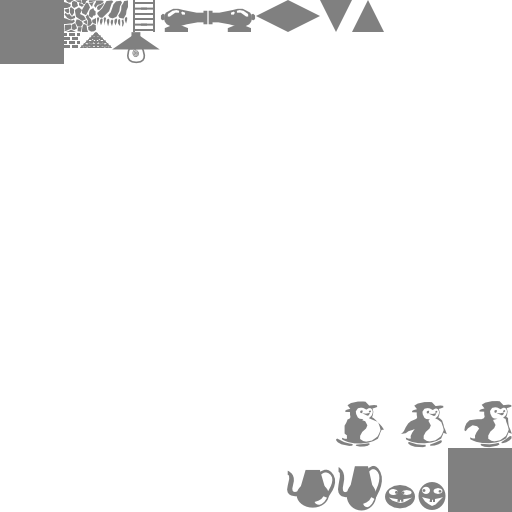
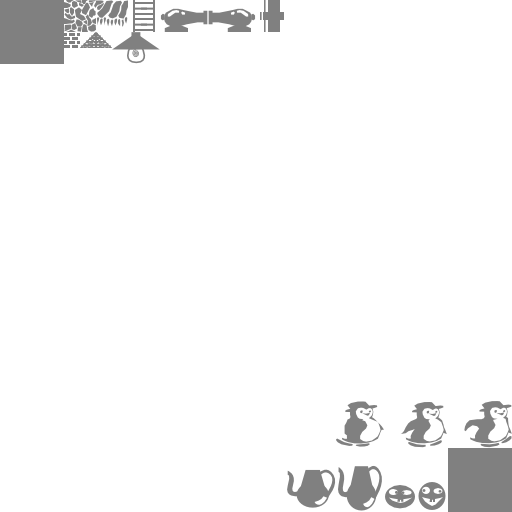
playing with mobile

Changed region(s): [[0.5, 0.0, 0.75, 0.0625]]

diff --git a/src/rooms.js b/src/rooms.js
@@ -12,7 +12,7 @@ var DESCRIPTIONS = {
 }
 
 var ROOMS = {
-    start: [[0,0,0,0,0,0,0,0,0,0,0,0,0,0,0,0,0,0,0,0,0,0,0,0,0,0,0,0,0,0,8,0,3,0,3,0,3,0],[0,0,0,0,0,0,0,0,0,0,0,0,0,0,0,0,0,0,0,0,0,0,0,0,0,0,0,0,0,0,0,0,0,0,0,0,0,0],[0,0,0,0,0,0,0,0,0,0,0,0,5,0,0,0,0,0,0,0,0,0,0,0,0,0,0,0,0,0,8,0,3,0,3,0,3,0],[0,0,0,0,0,0,0,0,0,0,0,15,5,5,5,5,4,4,4,4,4,4,4,4,4,4,4,4,4,4,0,0,0,0,0,0,0,0],[0,0,0,0,0,0,0,0,0,0,15,5,0,0,0,0,0,0,0,0,0,0,0,0,0,0,0,0,0,0,8,0,3,0,3,0,3,0],[0,0,0,0,0,0,0,0,0,0,5,0,0,0,0,0,0,0,0,0,0,0,0,0,0,0,0,0,0,0,0,0,0,0,0,0,0,0],[0,0,0,0,0,0,0,0,0,0,16,5,0,17,0,0,0,0,0,0,0,0,0,0,0,0,0,0,0,0,8,0,3,0,3,0,3,0],[0,0,0,0,0,0,0,0,0,0,0,16,5,0,0,0,0,0,0,0,0,0,0,0,0,0,0,0,0,0,0,0,0,0,0,0,0,0],[0,0,0,0,0,0,0,0,0,0,0,0,0,0,0,0,0,0,0,0,0,0,0,0,0,0,0,0,0,0,8,0,3,0,3,0,3,0],[0,0,0,0,0,0,0,0,0,0,0,0,0,0,0,0,0,0,0,0,0,0,0,0,0,0,0,0,0,0,0,0,0,0,0,0,0,0],[0,0,0,0,0,0,0,0,0,0,0,0,0,0,0,0,0,0,0,0,0,0,0,0,0,0,0,0,0,0,8,0,3,0,3,0,3,0],[0,0,0,0,0,0,0,0,0,0,0,0,0,0,0,0,0,0,0,0,0,0,0,0,0,0,0,0,0,0,0,0,0,0,0,0,0,0],[0,0,0,0,0,0,0,0,0,0,0,0,0,0,0,0,0,0,0,0,0,0,0,0,0,0,0,0,0,0,8,0,3,0,3,0,3,0],[0,0,0,0,0,0,0,0,0,0,0,0,0,0,0,0,0,0,0,0,0,0,0,0,0,0,0,0,0,0,0,0,0,0,0,0,0,0],[0,0,0,0,0,0,0,0,0,0,0,0,0,0,0,0,0,0,0,0,0,0,0,0,0,0,0,0,0,0,8,0,3,0,3,0,3,0],[0,0,0,0,0,0,0,0,0,0,0,0,0,0,0,0,0,0,0,0,0,0,0,0,0,0,0,0,0,0,0,0,0,0,0,0,0,0],[0,0,0,0,0,0,0,0,0,0,0,0,0,0,0,0,0,0,0,0,0,0,0,0,0,0,0,0,0,0,8,0,3,0,3,0,3,0],[0,0,0,0,0,0,0,0,0,0,0,0,0,0,0,0,0,0,0,0,0,0,0,0,0,0,0,0,0,0,0,0,0,0,0,0,0,0],[0,0,0,0,0,0,0,0,0,0,0,0,0,0,0,0,0,0,0,0,0,0,0,0,0,0,0,0,0,0,8,0,3,0,3,0,3,0],[0,0,0,0,0,0,0,0,0,0,0,0,0,0,0,0,0,0,0,0,0,0,0,0,0,0,0,0,0,0,0,0,0,0,0,0,0,0],[0,0,0,0,0,0,0,0,0,0,0,0,0,0,0,0,0,0,0,0,0,0,0,0,0,0,0,0,0,0,8,0,3,0,3,0,3,0],[0,0,0,0,0,0,0,0,0,0,0,0,0,0,0,0,0,0,0,0,0,0,0,0,0,0,0,0,0,0,0,0,0,0,0,0,0,0],[0,0,0,0,0,0,0,0,0,0,0,0,0,0,0,0,0,0,0,0,0,0,0,0,0,0,0,0,0,0,8,0,3,0,3,0,3,0],[0,0,0,0,0,0,0,0,0,0,0,0,0,0,0,0,0,0,0,0,0,0,0,0,0,0,0,0,0,0,0,0,0,0,0,0,0,0],[0,0,0,0,0,0,0,0,0,0,0,0,0,0,0,0,0,0,0,0,0,0,0,0,0,0,0,0,0,0,8,0,3,0,3,0,3,0],[0,0,0,0,0,0,0,0,0,0,0,0,0,0,0,0,0,5,5,0,0,0,0,0,0,0,0,0,0,0,0,0,0,0,0,0,0,0],[0,0,0,0,0,0,0,0,0,0,0,0,0,0,0,0,0,5,5,0,14,0,0,0,0,0,0,0,0,0,8,0,3,0,3,0,3,0],[0,0,0,0,0,0,0,0,0,0,0,0,0,0,0,0,0,5,5,0,0,0,0,0,0,0,0,0,0,0,0,0,0,0,0,0,0,0],[0,0,0,0,0,0,0,0,0,0,0,0,0,0,0,0,0,5,5,0,0,0,0,0,0,0,0,0,0,0,8,0,3,0,3,0,3,0],[0,0,0,0,0,0,0,0,0,0,0,0,0,0,0,0,15,5,5,0,0,0,0,0,0,0,0,0,0,0,0,0,0,0,0,0,0,0],[0,0,0,0,0,0,0,0,0,0,0,0,0,0,0,15,5,4,1,0,1,0,1,0,1,0,0,0,0,0,8,0,3,0,3,0,3,0],[0,0,0,0,0,0,0,0,0,0,0,0,0,0,15,5,4,4,0,0,0,0,0,0,0,0,0,0,0,0,0,0,0,0,0,0,0,0],[0,0,0,0,0,0,0,0,0,0,0,0,0,15,5,4,4,4,1,0,1,0,1,0,1,0,0,0,0,0,8,0,3,0,3,0,3,0],[0,0,0,0,0,0,0,0,0,0,0,0,15,5,4,4,4,4,0,0,0,0,0,0,0,0,0,0,0,0,0,0,0,0,0,0,0,0],[0,0,0,0,0,0,0,0,0,0,0,15,5,4,4,4,4,0,1,0,1,0,0,0,0,0,0,0,0,0,8,0,3,0,3,0,3,0],[0,0,0,0,0,0,0,0,0,0,15,5,4,4,4,4,0,0,0,0,0,0,0,0,0,0,0,0,0,0,0,0,0,0,0,0,0,0],[0,0,0,0,0,0,0,0,0,15,5,4,4,4,4,0,0,0,1,0,1,0,0,0,0,0,0,0,0,0,8,0,3,0,3,0,3,0],[0,0,0,0,0,0,0,0,15,5,4,4,4,4,0,0,0,0,0,0,0,0,0,0,0,0,0,0,0,0,0,0,0,0,0,0,0,0],[0,0,0,0,0,0,0,15,5,4,4,4,4,0,0,0,0,0,1,0,1,0,0,0,0,0,0,0,0,0,8,0,3,0,3,0,3,0],[0,0,0,0,0,0,15,5,4,4,4,4,0,0,0,0,0,0,0,0,0,0,0,0,0,0,0,0,0,0,0,0,0,0,0,0,0,0],[0,0,0,0,0,15,5,4,4,4,4,0,0,0,0,0,0,0,1,0,1,0,0,0,0,0,0,0,0,0,8,0,3,0,3,0,3,0],[0,0,0,0,15,5,4,4,4,4,0,0,0,0,0,0,0,0,0,0,0,0,0,0,0,0,0,0,0,0,0,0,0,0,0,0,0,0],[0,0,0,0,5,4,4,4,4,0,0,0,0,0,0,0,0,0,1,0,1,0,0,0,0,0,0,0,0,0,8,0,3,0,3,0,3,0],[0,0,0,0,5,4,4,4,4,0,0,0,0,0,0,0,0,0,0,0,0,0,0,0,0,0,0,0,0,0,0,0,0,0,0,0,0,0],[0,0,0,0,5,4,4,4,4,0,0,0,0,0,0,0,0,0,1,0,1,0,0,0,0,0,0,0,0,0,8,0,3,0,3,0,3,0],[0,0,0,0,5,4,4,4,4,0,0,0,0,0,0,0,0,0,0,0,0,0,0,0,0,0,0,0,0,0,0,0,0,0,0,0,0,0],[0,0,0,0,5,4,4,4,4,0,0,0,0,0,0,0,0,0,1,0,1,0,0,0,0,0,0,0,0,0,8,0,3,0,3,0,3,0],[0,0,0,0,5,4,4,4,4,0,0,0,0,0,0,0,0,0,0,0,0,0,0,0,0,0,0,0,0,0,0,0,0,0,0,0,0,0],[0,0,0,0,1,0,1,0,1,0,0,0,0,0,0,0,0,0,1,0,1,0,0,0,0,0,0,0,0,0,8,0,3,0,3,0,3,0],[0,0,0,0,0,0,0,0,0,0,0,0,0,0,0,0,0,0,0,0,0,0,0,0,0,0,0,0,0,0,0,0,0,0,0,0,0,0]],
+    start: [[0,0,0,0,0,0,0,0,0,0,0,0,0,0,0,0,0,0,0,0,0,0,0,0,0,0,0,0,0,0,8,0,3,0,3,0,3,0],[0,0,0,0,0,0,0,0,0,0,0,0,0,0,0,0,0,0,0,0,0,0,0,0,0,0,0,0,0,0,0,0,0,0,0,0,0,0],[0,0,0,0,0,0,0,0,0,0,0,15,5,5,5,5,18,0,18,0,18,0,18,0,18,0,18,0,18,0,8,0,3,0,3,0,3,0],[0,0,0,0,0,0,0,0,0,0,15,5,5,5,5,5,0,0,0,0,0,0,0,0,0,0,0,0,0,0,0,0,0,0,0,0,0,0],[0,0,0,0,0,0,0,0,0,0,5,5,0,0,0,0,0,0,0,0,0,0,0,0,0,0,0,0,0,0,8,0,3,0,3,0,3,0],[0,0,0,0,0,0,0,0,0,0,5,5,0,0,0,0,0,0,0,0,0,0,0,0,0,0,0,0,0,0,0,0,0,0,0,0,0,0],[0,0,0,0,0,0,0,0,0,0,16,5,0,17,0,0,0,0,0,0,0,0,0,0,0,0,0,0,0,0,8,0,3,0,3,0,3,0],[0,0,0,0,0,0,0,0,0,0,0,16,5,0,0,0,0,0,0,0,0,0,0,0,0,0,0,0,0,0,0,0,0,0,0,0,0,0],[0,0,0,0,0,0,0,0,0,0,0,0,0,0,0,0,0,0,0,0,0,0,0,0,0,0,0,0,0,0,8,0,3,0,3,0,3,0],[0,0,0,0,0,0,0,0,0,0,0,0,0,0,0,0,0,0,0,0,0,0,0,0,0,0,0,0,0,0,0,0,0,0,0,0,0,0],[0,0,0,0,0,0,0,0,0,0,0,0,0,0,0,0,0,0,0,0,0,0,0,0,0,0,0,0,0,0,8,0,3,0,3,0,3,0],[0,0,0,0,0,0,0,0,0,0,0,0,0,0,0,0,0,0,0,0,0,0,0,0,0,0,0,0,0,0,0,0,0,0,0,0,0,0],[0,0,0,0,0,0,0,0,0,0,0,0,0,0,0,0,0,0,0,0,0,0,0,0,0,0,0,0,0,0,8,0,3,0,3,0,3,0],[0,0,0,0,0,0,0,0,0,0,0,0,0,0,0,0,0,0,0,0,0,0,0,0,0,0,0,0,0,0,0,0,0,0,0,0,0,0],[0,0,0,0,0,0,0,0,0,0,0,0,0,0,0,0,0,0,0,0,0,0,0,0,0,0,0,0,0,0,8,0,3,0,3,0,3,0],[0,0,0,0,0,0,0,0,0,0,0,0,0,0,0,0,0,0,0,0,0,0,0,0,0,0,0,0,0,0,0,0,0,0,0,0,0,0],[0,0,0,0,0,0,0,0,0,0,0,0,0,0,0,0,0,0,0,0,0,0,0,0,0,0,0,0,0,0,8,0,3,0,3,0,3,0],[0,0,0,0,0,0,0,0,0,0,0,0,0,0,0,0,0,0,0,0,0,0,0,0,0,0,0,0,0,0,0,0,0,0,0,0,0,0],[0,0,0,0,0,0,0,0,0,0,0,0,0,0,0,0,0,0,0,0,0,0,0,0,0,0,0,0,0,0,8,0,3,0,3,0,3,0],[0,0,0,0,0,0,0,0,0,0,0,0,0,0,0,0,0,0,0,0,0,0,0,0,0,0,0,0,0,0,0,0,0,0,0,0,0,0],[0,0,0,0,0,0,0,0,0,0,0,0,0,0,0,0,0,0,0,0,0,0,0,0,0,0,0,0,0,0,8,0,3,0,3,0,3,0],[0,0,0,0,0,0,0,0,0,0,0,0,0,0,0,0,0,0,0,0,0,0,0,0,0,0,0,0,0,0,0,0,0,0,0,0,0,0],[0,0,0,0,0,0,0,0,0,0,0,0,0,0,0,0,0,0,0,0,0,0,0,0,0,0,0,0,0,0,8,0,3,0,3,0,3,0],[0,0,0,0,0,0,0,0,0,0,0,0,0,0,0,0,0,0,0,0,0,0,0,0,0,0,0,0,0,0,0,0,0,0,0,0,0,0],[0,0,0,0,0,0,0,0,0,0,0,0,0,0,0,0,0,0,0,0,0,0,0,0,0,0,0,0,0,0,8,0,3,0,3,0,3,0],[0,0,0,0,0,0,0,0,0,0,0,0,0,0,0,0,0,5,5,0,0,0,0,0,0,0,0,0,0,0,0,0,0,0,0,0,0,0],[0,0,0,0,0,0,0,0,0,0,0,0,0,0,0,0,0,5,5,0,14,0,0,0,0,0,0,0,0,0,8,0,3,0,3,0,3,0],[0,0,0,0,0,0,0,0,0,0,0,0,0,0,0,0,0,5,5,0,0,0,0,0,0,0,0,0,0,0,0,0,0,0,0,0,0,0],[0,0,0,0,0,0,0,0,0,0,0,0,0,0,0,0,0,5,5,0,0,0,0,0,0,0,0,0,0,0,8,0,3,0,3,0,3,0],[0,0,0,0,0,0,0,0,0,0,0,0,0,0,0,0,15,5,5,0,0,0,0,0,0,0,0,0,0,0,0,0,0,0,0,0,0,0],[0,0,0,0,0,0,0,0,0,0,0,0,0,0,0,15,5,4,1,0,1,0,1,0,1,0,0,0,0,0,8,0,3,0,3,0,3,0],[0,0,0,0,0,0,0,0,0,0,0,0,0,0,15,5,4,4,0,0,0,0,0,0,0,0,0,0,0,0,0,0,0,0,0,0,0,0],[0,0,0,0,0,0,0,0,0,0,0,0,0,15,5,4,4,4,1,0,1,0,1,0,1,0,0,0,0,0,8,0,3,0,3,0,3,0],[0,0,0,0,0,0,0,0,0,0,0,0,15,5,4,4,4,4,0,0,0,0,0,0,0,0,0,0,0,0,0,0,0,0,0,0,0,0],[0,0,0,0,0,0,0,0,0,0,0,15,5,4,4,4,4,0,1,0,1,0,0,0,0,0,0,0,0,0,8,0,3,0,3,0,3,0],[0,0,0,0,0,0,0,0,0,0,15,5,4,4,4,4,0,0,0,0,0,0,0,0,0,0,0,0,0,0,0,0,0,0,0,0,0,0],[0,0,0,0,0,0,0,0,0,15,5,4,4,4,4,0,0,0,1,0,1,0,0,0,0,0,0,0,0,0,8,0,3,0,3,0,3,0],[0,0,0,0,0,0,0,0,15,5,4,4,4,4,0,0,0,0,0,0,0,0,0,0,0,0,0,0,0,0,0,0,0,0,0,0,0,0],[0,0,0,0,0,0,0,15,5,4,4,4,4,0,0,0,0,0,1,0,1,0,0,0,0,0,0,0,0,0,8,0,3,0,3,0,3,0],[0,0,0,0,0,0,15,5,4,4,4,4,0,0,0,0,0,0,0,0,0,0,0,0,0,0,0,0,0,0,0,0,0,0,0,0,0,0],[0,0,0,0,0,15,5,4,4,4,4,0,0,0,0,0,0,0,1,0,1,0,0,0,0,0,0,0,0,0,8,0,3,0,3,0,3,0],[0,0,0,0,15,5,4,4,4,4,0,0,0,0,0,0,0,0,0,0,0,0,0,0,0,0,0,0,0,0,0,0,0,0,0,0,0,0],[0,0,0,0,5,4,4,4,4,0,0,0,0,0,0,0,0,0,1,0,1,0,0,0,0,0,0,0,0,0,8,0,3,0,3,0,3,0],[0,0,0,0,5,4,4,4,4,0,0,0,0,0,0,0,0,0,0,0,0,0,0,0,0,0,0,0,0,0,0,0,0,0,0,0,0,0],[0,0,0,0,5,4,4,4,4,0,0,0,0,0,0,0,0,0,1,0,1,0,0,0,0,0,0,0,0,0,8,0,3,0,3,0,3,0],[0,0,0,0,5,4,4,4,4,0,0,0,0,0,0,0,0,0,0,0,0,0,0,0,0,0,0,0,0,0,0,0,0,0,0,0,0,0],[0,0,0,0,5,4,4,4,4,0,0,0,0,0,0,0,0,0,1,0,1,0,0,0,0,0,0,0,0,0,8,0,3,0,3,0,3,0],[0,0,0,0,5,4,4,4,4,0,0,0,0,0,0,0,0,0,0,0,0,0,0,0,0,0,0,0,0,0,0,0,0,0,0,0,0,0],[0,0,0,0,1,0,1,0,1,0,0,0,0,0,0,0,0,0,1,0,1,0,0,0,0,0,0,0,0,0,8,0,3,0,3,0,3,0],[0,0,0,0,0,0,0,0,0,0,0,0,0,0,0,0,0,0,0,0,0,0,0,0,0,0,0,0,0,0,0,0,0,0,0,0,0,0]],
     entryway: [[4,4,4,4,4,4,4,4,0,0,0,0,0,0,0,0,0,0,1,0,1,0,0,0,0,0,0,0,0,0,8,0,3,0,3,0,3,0],[4,4,4,4,4,4,4,4,0,0,0,0,0,0,0,0,0,0,0,0,0,0,0,0,0,0,0,0,0,0,0,0,0,0,0,0,0,0],[4,4,4,4,4,4,4,4,0,0,0,0,0,0,0,0,0,0,1,0,1,0,0,0,0,0,0,0,0,0,8,0,3,0,3,0,3,0],[4,4,4,4,4,4,4,4,0,0,0,0,0,0,0,0,0,0,0,0,0,0,0,0,0,0,0,0,0,0,0,0,0,0,0,0,0,0],[4,4,4,4,4,4,4,4,0,0,0,0,0,0,0,0,0,0,1,0,1,0,0,0,0,0,0,0,0,0,8,0,3,0,3,0,3,0],[4,4,4,4,4,4,4,4,0,0,0,0,0,0,0,0,0,0,0,0,0,0,0,0,0,0,0,0,0,0,0,0,0,0,0,0,0,0],[4,4,4,4,4,4,4,4,0,0,0,0,0,0,0,0,0,0,1,0,1,0,0,0,0,0,0,0,0,0,8,0,3,0,3,0,3,0],[4,4,4,4,4,4,4,4,0,0,0,0,0,0,0,0,0,0,0,0,0,0,0,0,0,0,0,0,0,0,0,0,0,0,0,0,0,0],[4,4,4,4,4,4,4,4,0,0,0,0,0,0,0,0,0,0,1,0,1,0,0,0,0,0,0,0,0,0,8,0,3,0,3,0,3,0],[4,4,4,4,4,4,4,4,0,0,0,0,0,0,0,0,0,0,0,0,0,0,0,0,0,0,0,0,0,0,0,0,0,0,0,0,0,0],[4,4,4,4,4,4,4,4,0,0,0,0,0,0,0,0,0,0,1,0,1,0,0,0,0,0,0,0,0,0,8,0,3,0,3,0,3,0],[4,4,0,0,0,10,0,4,0,0,0,0,0,0,0,0,0,0,0,0,0,0,0,0,0,0,0,0,0,0,0,0,0,0,0,0,0,0],[1,0,0,0,0,0,0,4,0,0,0,0,0,0,0,0,0,0,1,0,1,0,0,0,0,0,0,0,0,0,8,0,3,0,3,0,3,0],[0,0,0,0,0,0,0,4,0,0,0,0,0,0,0,0,0,0,0,0,0,0,0,0,0,0,0,0,0,0,0,0,0,0,0,0,0,0],[1,0,0,0,0,0,0,4,0,0,0,0,1,0,0,0,0,0,1,0,1,0,0,0,0,0,0,0,0,0,8,0,3,0,3,0,3,0],[0,0,0,0,0,0,0,0,0,0,0,0,0,0,0,0,0,0,0,0,0,0,0,0,0,0,0,0,0,0,0,0,0,0,0,0,0,0],[1,0,0,0,0,0,0,0,0,0,0,0,1,0,0,0,0,0,1,0,1,0,0,0,0,0,0,0,0,0,8,0,3,0,3,0,3,0],[0,0,0,0,0,0,0,0,0,0,0,0,0,0,0,0,0,0,0,0,0,0,0,0,0,0,0,0,0,0,0,0,0,0,0,0,0,0],[1,0,0,0,0,0,0,0,0,0,0,0,1,0,0,0,0,0,1,0,1,0,0,0,0,0,0,0,0,0,0,0,3,0,3,0,3,0],[0,0,0,0,0,0,0,0,0,0,0,0,0,0,0,0,0,0,0,0,0,0,0,0,0,0,0,0,0,0,0,0,0,0,0,0,0,0],[1,0,0,0,0,0,0,0,0,0,0,0,1,0,0,0,0,0,1,0,1,0,1,0,0,0,0,0,0,0,0,0,0,0,3,0,3,0],[0,0,0,0,0,0,0,0,0,0,0,0,0,0,0,0,0,0,0,0,0,0,0,0,0,0,0,0,0,0,0,0,0,0,0,0,0,0],[1,0,0,0,0,0,0,0,0,0,9,0,9,0,9,0,9,0,1,0,1,0,1,0,0,0,0,0,0,0,0,0,0,0,0,0,3,0],[0,0,0,0,0,0,0,0,0,0,0,0,0,0,0,0,0,0,0,0,0,0,0,0,0,0,0,0,0,0,0,0,0,0,0,0,0,0],[1,0,0,0,0,0,0,0,0,0,0,0,1,0,0,0,0,0,0,0,0,0,1,0,0,0,0,0,0,0,0,0,0,0,0,0,3,0],[0,0,0,0,0,0,0,0,0,0,0,0,0,0,0,0,0,0,0,0,0,0,0,0,0,0,0,0,0,0,0,0,0,0,0,0,0,0],[1,0,0,0,0,0,0,0,0,0,0,0,1,0,0,0,0,0,0,0,0,0,1,0,0,0,0,0,1,0,0,0,0,0,13,0,3,0],[0,0,0,0,0,0,0,0,0,0,0,0,0,0,0,0,0,0,0,0,0,0,0,0,0,0,0,0,0,0,0,0,0,0,0,0,0,0],[1,0,0,0,0,0,0,0,0,0,13,0,1,0,0,0,0,0,0,0,0,0,1,0,0,0,0,0,1,0,0,0,0,0,0,0,3,0],[0,0,0,0,0,0,0,0,0,0,0,0,0,0,0,0,0,0,0,0,0,0,0,0,0,0,0,0,0,0,0,0,0,0,0,0,0,0],[1,0,0,0,0,0,0,0,0,0,0,0,1,0,0,0,0,0,0,0,0,0,1,0,0,0,0,0,1,0,0,0,0,0,0,0,3,0],[0,0,0,0,0,0,0,0,0,0,0,0,0,0,0,0,0,0,0,0,0,0,0,0,0,0,0,0,0,0,0,0,0,0,0,0,0,0],[1,0,0,0,0,0,0,0,0,0,0,0,1,0,0,0,0,0,0,0,0,0,0,0,0,0,0,0,1,0,0,0,0,0,0,0,3,0],[0,0,0,0,0,0,0,0,0,0,0,0,0,0,0,0,0,0,0,0,0,0,0,0,0,0,0,0,0,0,0,0,0,0,0,0,0,0],[2,0,2,0,2,0,2,0,2,0,2,0,2,0,2,0,2,0,0,0,0,0,0,0,0,0,0,0,1,0,0,0,0,0,0,0,3,0],[0,0,0,0,0,0,0,0,0,0,0,0,0,0,0,0,0,0,0,0,0,0,0,0,0,0,0,0,0,0,0,0,0,0,0,0,0,0],[0,0,0,0,0,0,0,0,0,0,2,0,0,0,0,0,2,0,0,0,0,0,9,0,9,0,9,0,9,0,9,0,9,0,9,0,3,0],[0,0,0,0,0,0,0,0,0,0,0,0,0,0,0,0,0,0,0,0,0,0,0,0,0,0,0,0,0,0,0,0,0,0,0,0,0,0],[0,0,0,0,0,0,0,0,0,0,2,0,0,0,0,0,2,0,0,0,13,0,2,0,0,0,0,0,0,0,0,0,0,0,0,0,3,0],[0,0,0,0,0,0,0,0,0,0,0,0,0,0,0,0,0,0,0,0,0,0,0,0,0,0,0,0,0,0,0,0,0,0,0,0,0,0],[0,0,0,0,0,0,0,0,0,0,2,0,0,0,0,0,2,0,0,0,0,0,2,0,0,0,0,0,0,0,0,0,0,0,0,0,3,0],[0,0,0,0,0,0,0,0,0,0,0,0,0,0,0,0,0,0,0,0,0,0,0,0,0,0,0,0,0,0,0,0,0,0,0,0,0,0],[0,0,0,0,2,0,0,0,0,0,0,0,0,0,0,0,2,0,0,0,0,0,2,0,0,0,0,0,0,0,0,0,0,0,0,0,3,0],[0,0,0,0,0,0,0,0,0,0,0,0,0,0,0,0,0,0,0,0,0,0,0,0,0,0,0,0,0,0,0,0,0,0,0,0,0,0],[0,0,0,0,2,0,0,0,0,0,0,0,0,0,0,0,2,0,0,0,0,0,2,0,0,0,0,0,0,0,0,0,0,0,0,0,3,0],[0,0,0,0,0,0,0,0,0,0,0,0,0,0,0,0,0,0,0,0,0,0,0,0,0,0,0,0,0,0,0,0,0,0,0,0,0,0],[0,0,0,0,2,0,0,0,0,0,0,0,0,0,0,0,2,0,0,0,0,0,2,0,0,0,0,0,0,0,0,0,0,0,0,0,3,0],[0,0,0,0,0,0,0,0,0,0,0,0,0,0,0,0,0,0,0,0,0,0,0,0,0,0,0,0,0,0,0,0,0,0,0,0,0,0],[0,0,0,0,2,0,0,0,0,0,0,0,0,0,0,0,2,0,0,0,0,0,2,0,0,0,0,0,0,0,0,0,0,0,0,0,3,0],[0,0,0,0,0,0,0,0,0,0,0,0,0,0,0,0,0,0,0,0,0,0,0,0,0,0,0,0,0,0,0,0,0,0,0,0,0,0]],
     drawing_room: [[0,0,0,0,2,0,0,0,0,0,0,0,0,0,0,0,2,0,0,0,0,0,2,0,0,0,0,0,0,0,0,0,0,0,0,0,3,0],[0,0,0,0,0,0,0,0,0,0,0,0,0,0,0,0,0,0,0,0,0,0,0,0,0,0,0,0,0,0,0,0,0,0,0,0,0,0],[0,0,0,0,2,0,2,0,0,0,0,0,0,0,0,0,2,0,0,0,0,0,2,0,0,0,0,0,0,0,0,0,0,0,0,0,3,0],[0,0,0,0,0,0,0,0,0,0,0,0,0,0,0,0,0,0,0,0,0,0,0,0,0,0,0,0,0,0,0,0,0,0,0,0,0,0],[0,0,0,0,0,0,2,0,0,0,0,0,0,0,3,0,2,0,0,0,0,0,2,0,0,0,0,0,0,0,0,0,0,0,0,0,3,0],[0,0,0,0,0,0,0,0,0,0,0,0,0,0,0,0,0,0,0,0,0,0,0,0,0,0,0,0,0,0,0,0,0,0,0,0,0,0],[0,0,0,0,0,0,0,0,0,0,0,0,3,0,3,0,2,0,0,0,0,0,2,0,0,0,0,0,0,0,0,0,0,0,0,0,3,0],[0,0,0,0,0,0,0,0,0,0,0,0,0,0,0,0,0,0,0,0,0,0,0,0,0,0,0,0,0,0,0,0,0,0,0,0,0,0],[0,0,0,0,0,0,0,0,0,0,0,0,3,0,3,0,2,0,0,0,0,0,2,0,0,0,0,0,0,0,0,0,0,0,0,0,3,0],[0,0,0,0,0,0,0,0,0,0,0,0,0,0,0,0,0,0,0,0,0,0,0,0,0,0,0,0,0,0,0,0,0,0,0,0,0,0],[0,0,0,0,0,0,0,0,0,0,3,0,3,0,3,0,2,0,0,0,0,0,9,0,9,0,9,0,9,0,9,0,9,0,0,0,3,0],[0,0,0,0,0,0,0,0,0,0,0,0,0,0,0,0,0,0,0,0,0,0,0,0,0,0,0,0,0,0,0,0,0,0,0,0,0,0],[3,0,3,0,3,0,0,0,0,0,3,0,3,0,3,0,2,0,0,0,0,0,2,0,0,14,0,0,0,0,0,0,0,0,0,0,3,0],[0,0,0,0,0,0,0,0,0,0,0,0,0,0,0,0,0,0,0,0,0,0,0,0,0,0,0,0,0,0,0,0,0,0,0,0,0,0],[3,0,0,0,0,0,0,0,0,0,0,0,0,0,3,0,2,0,0,0,0,0,2,0,0,0,0,0,0,0,0,0,0,0,0,0,3,0],[0,0,0,0,0,0,0,0,0,0,0,0,0,0,0,0,0,0,0,0,0,0,0,0,0,0,0,0,0,0,0,0,0,0,0,0,0,0],[3,0,0,0,0,0,0,0,0,0,0,0,0,0,3,0,2,0,2,0,2,0,2,0,2,0,2,0,2,0,2,0,0,0,0,0,3,0],[0,0,0,0,0,0,0,0,0,0,0,0,0,0,0,0,0,0,0,0,0,0,0,0,0,0,0,0,0,0,0,0,0,0,0,0,0,0],[3,0,0,0,0,0,0,0,0,0,0,0,0,0,3,0,0,0,0,0,0,0,0,0,0,0,0,0,4,4,4,4,0,0,0,0,3,0],[0,0,0,0,0,0,0,0,0,0,0,0,0,0,0,0,0,0,0,0,0,0,0,0,0,0,0,0,0,4,4,4,0,0,0,0,0,0],[3,0,0,0,0,0,0,0,0,0,0,0,0,0,3,0,0,0,0,0,0,0,3,0,0,0,0,0,0,0,4,4,0,0,0,0,3,0],[0,0,0,0,0,0,0,0,0,0,0,0,0,0,0,0,0,0,0,0,0,0,0,0,0,0,0,0,0,0,0,4,0,0,0,0,0,0],[3,0,0,0,0,0,0,0,0,0,0,0,0,0,9,0,9,0,9,0,0,0,3,0,0,0,0,0,0,0,0,0,0,0,0,0,3,0],[0,0,0,0,0,0,0,0,0,0,0,0,0,0,0,0,0,0,0,0,0,0,0,0,0,0,0,0,0,0,0,0,0,0,0,0,0,0],[3,0,0,0,0,0,0,0,0,0,0,0,0,14,0,0,0,0,0,0,0,0,3,0,0,0,0,0,0,0,0,0,0,0,13,0,3,0],[0,0,0,0,0,0,0,0,0,0,0,0,0,0,0,0,0,0,0,0,0,0,0,0,0,0,0,0,0,0,0,0,0,0,0,0,0,0],[3,0,0,0,0,0,0,0,0,0,3,0,0,0,0,0,0,0,0,0,0,0,9,0,9,0,9,0,9,0,0,0,0,0,0,0,3,0],[0,0,0,0,0,0,0,0,0,0,0,0,0,0,0,0,0,0,0,0,0,0,0,0,0,0,0,0,0,0,0,0,0,0,0,0,0,0],[3,0,0,0,0,0,0,0,0,0,3,0,0,0,0,0,0,0,0,0,0,0,0,0,0,0,0,0,0,0,0,0,0,0,0,0,3,0],[0,0,0,0,0,0,0,0,0,0,0,0,0,0,0,0,0,0,0,0,0,0,0,0,0,0,0,0,0,0,0,0,0,0,0,0,0,0],[3,0,0,0,0,0,0,0,0,0,3,0,0,0,0,0,0,0,0,0,0,0,0,0,0,0,0,0,0,0,0,0,4,4,4,4,3,0],[0,0,0,0,0,0,0,0,0,0,0,0,0,0,0,0,0,0,0,0,0,0,0,0,0,0,0,0,0,0,0,4,4,4,4,4,0,0],[3,0,0,0,0,0,0,0,0,0,3,0,0,0,0,0,0,0,0,0,0,0,0,0,0,0,0,0,0,0,4,4,4,4,4,4,3,0],[0,0,0,0,0,0,0,0,0,0,0,0,0,0,0,0,0,0,0,0,0,0,0,0,0,0,0,0,0,4,4,4,4,4,4,4,0,0],[3,0,0,0,0,0,0,0,0,0,3,0,0,0,0,0,0,0,0,0,0,0,0,0,0,0,0,0,4,4,4,4,4,4,4,4,3,0],[0,0,0,0,0,0,0,0,0,0,0,0,0,0,0,0,0,0,0,0,0,0,0,0,0,0,0,4,4,4,4,4,4,4,4,4,0,0],[3,0,3,0,0,0,0,0,0,0,3,0,3,0,3,0,3,0,3,0,3,0,3,0,3,0,4,4,4,4,4,4,4,4,4,4,3,0],[0,0,0,0,0,0,0,0,0,0,0,0,0,0,0,0,0,0,0,0,0,0,0,0,0,0,4,4,4,4,4,4,0,0,0,0,0,0],[3,0,3,0,0,0,0,0,0,0,0,0,3,0,0,0,0,0,0,0,0,0,0,0,0,0,4,4,4,4,4,0,0,0,0,0,3,0],[0,0,0,0,0,0,0,0,0,0,0,0,0,0,0,0,0,0,0,0,0,0,0,0,0,0,4,4,4,4,0,0,0,0,0,0,0,0],[3,0,3,0,0,0,0,0,0,0,0,0,3,0,0,0,13,0,3,0,0,0,0,0,0,0,4,4,4,0,0,0,0,0,0,0,3,0],[0,0,0,0,0,0,0,0,0,0,0,0,0,0,0,0,0,0,0,0,0,0,0,0,0,0,4,4,4,0,0,0,0,0,0,0,0,0],[3,0,3,0,0,0,3,0,0,0,0,0,9,0,9,0,0,0,3,0,0,0,0,0,0,0,4,4,0,0,0,0,0,0,0,0,3,0],[0,0,0,0,11,0,0,0,0,0,0,0,0,0,0,0,0,0,0,0,9,0,9,0,9,0,9,0,9,0,9,0,9,0,0,0,0,0],[3,0,3,0,0,0,3,0,0,0,0,0,3,0,0,0,0,0,3,0,0,0,0,0,0,0,0,0,0,0,0,0,0,0,0,0,3,0],[0,0,0,0,0,0,0,0,0,0,0,0,0,0,0,0,0,0,0,0,0,0,0,0,0,0,4,4,0,0,0,0,0,0,0,0,0,0],[3,0,3,0,3,0,3,0,0,0,0,0,3,0,0,0,0,0,0,0,0,0,0,0,0,0,4,4,4,0,0,0,0,0,0,0,3,0],[0,0,0,0,0,0,0,0,0,0,0,0,0,0,0,0,0,0,0,0,0,0,0,0,0,0,4,4,4,4,0,0,0,0,0,0,0,0],[3,0,3,0,3,0,3,0,3,0,3,0,3,0,3,0,3,0,3,0,3,0,3,0,3,0,3,0,3,0,3,0,0,0,0,0,3,0],[0,0,0,0,0,0,0,0,0,0,0,0,0,0,0,0,0,0,0,0,0,0,0,0,0,0,0,0,0,0,0,0,0,0,0,0,0,0]],
 

diff --git a/src/jx.js b/src/jx.js
@@ -118,10 +118,10 @@ GameState.prototype.create = function() {
     // Set stage background to something sky colored
     this.game.stage.backgroundColor = 0x000000;
 
-    this.CONTROLS = [ this.game.input.pointer1, this.game.input.pointer2 ];
+    this.CONTROLS = [ this.game.input.activePointer, this.game.input.pointer1, this.game.input.pointer2 ];
 
     this.world = this.game.add.group();
-    this.world.scale.setTo((this.game.width - this.CONTROLLER_SIZE * 2)/800, this.game.height / 600.0);
+//    this.world.scale.setTo((this.game.width - this.CONTROLLER_SIZE * 2)/800, this.game.height / 600.0);
     this.world.x = this.CONTROLLER_SIZE;
 
     this.create_player();
@@ -153,46 +153,29 @@ GameState.prototype.create = function() {
 
     this.text = this.game.add.text(16 + this.world.x, 16, "", { fontSize: '16px', fill: '#888' });
 
-
     // add the controllers
-    var graphics = this.game.add.graphics(0, 0);
-    graphics.beginFill(0x444444);
-    graphics.drawRect(0, 0, this.CONTROLLER_SIZE, this.game.height);
-    graphics.endFill();
+    var xx = [0, this.game.width - this.CONTROLLER_SIZE];
+    for(var i = 0; i < xx.length; i++) {
+        var graphics = this.game.add.graphics(xx[i], 0);
+        graphics.beginFill(0x444444);
+        graphics.drawRect(0, 0, this.CONTROLLER_SIZE, this.game.height);
+        graphics.endFill();
 
-    graphics.beginFill(0x4444aa);
-    graphics.drawRect(5,
-            this.game.height - this.CONTROLLER_SIZE * 2,
-            this.CONTROLLER_SIZE - 10,
-            this.CONTROLLER_SIZE - 10);
-    graphics.endFill();
+        graphics.beginFill(0x4444aa);
+        graphics.drawCircle(this.CONTROLLER_SIZE / 2, this.game.height - this.CONTROLLER_SIZE / 2, this.CONTROLLER_SIZE - 10);
+        graphics.endFill();
+    }
 
-    graphics.beginFill(0x4444aa);
-    graphics.drawRect(5,
-            this.game.height - this.CONTROLLER_SIZE,
-            this.CONTROLLER_SIZE - 10,
-            this.CONTROLLER_SIZE - 10);
-    graphics.endFill();
-
-    graphics = this.game.add.graphics(this.game.width - this.CONTROLLER_SIZE, 0);
-    graphics.beginFill(0x444444);
-    graphics.drawRect(0, 0, this.CONTROLLER_SIZE, this.game.height);
-    graphics.endFill();
-
-    graphics.beginFill(0x4444aa);
-    graphics.drawRect(5,
-            this.game.height - this.CONTROLLER_SIZE * 2,
-            this.CONTROLLER_SIZE - 10,
-            this.CONTROLLER_SIZE - 10);
-    graphics.endFill();
-
-    graphics.beginFill(0x4444aa);
-    graphics.drawRect(5,
-            this.game.height - this.CONTROLLER_SIZE,
-            this.CONTROLLER_SIZE - 10,
-            this.CONTROLLER_SIZE - 10);
-    graphics.endFill();
-
+    // controller sprite
+    var gx = this.game.add.graphics(0, 0);
+    gx.beginFill(0xffffff, 0.5);
+    gx.drawCircle(this.CONTROLLER_SIZE/2, this.CONTROLLER_SIZE/2, this.CONTROLLER_SIZE - 30);
+    gx.endFill();
+    this.controller_sprite = this.game.add.sprite(0, 0, gx.generateTexture());
+    this.controller_sprite.anchor.set(0.5);
+    this.controller_sprite2 = this.game.add.sprite(0, 0, gx.generateTexture());
+    this.controller_sprite2.anchor.set(0.5);
+    gx.destroy();
 
     // debug
     window.world = this.world;
@@ -223,10 +206,43 @@ GameState.prototype.update = function() {
 //    this.game.debug.pointer(this.game.input.pointer1);
 //    this.game.debug.pointer(this.game.input.pointer2);
 
-    if (this.leftInputIsActive()) {
+
+    var dx = 0;
+    var dy = 0;
+    var jump_active = false;
+    for(var i = 0; i < this.CONTROLS.length; i++) {
+        var c = this.CONTROLS[i];
+        if((c.active || c.isDown)) {
+            if (c.x < this.CONTROLLER_SIZE && c.y > this.game.height - this.CONTROLLER_SIZE) {
+                dx = c.x - this.CONTROLLER_SIZE / 2;
+                dy = c.y - (this.game.height - this.CONTROLLER_SIZE / 2);
+                break;
+            }
+            if(c.x > this.game.width - this.CONTROLLER_SIZE && c.y > this.game.height - this.CONTROLLER_SIZE) {
+                jump_active = true;
+                break;
+            }
+        }
+    }
+    if(dx != 0 || dy != 0) {
+        if(!this.controller_sprite.alive) this.controller_sprite.revive();
+        this.controller_sprite.x = this.CONTROLLER_SIZE/2 + dx;
+        this.controller_sprite.y = this.game.height - this.CONTROLLER_SIZE/2 + dy;
+    } else if(this.controller_sprite.alive) {
+        this.controller_sprite.kill();
+    }
+    if(jump_active) {
+        if(!this.controller_sprite2.alive) this.controller_sprite2.revive();
+        this.controller_sprite2.x = this.game.width - this.CONTROLLER_SIZE/2;
+        this.controller_sprite2.y = this.game.height - this.CONTROLLER_SIZE/2;
+    } else if(this.controller_sprite2.alive) {
+        this.controller_sprite2.kill();
+    }
+
+    if (this.input.keyboard.isDown(Phaser.Keyboard.LEFT) || dx < 0) {
         // If the LEFT key is down, set the player velocity to move left
         this.player.body.acceleration.x = -this.ACCELERATION;
-    } else if (this.rightInputIsActive()) {
+    } else if (this.input.keyboard.isDown(Phaser.Keyboard.RIGHT) || dx > 0) {
         // If the RIGHT key is down, set the player velocity to move right
         this.player.body.acceleration.x = this.ACCELERATION;
     } else {
@@ -236,21 +252,22 @@ GameState.prototype.update = function() {
 
     // Set a variable that is true when the player is touching the ground
     var onTheGround = this.player.body.touching.down;
-    if(onTheGround && this.upInputIsActive()) {
+    if(onTheGround && (this.input.keyboard.isDown(Phaser.Keyboard.SPACEBAR) || jump_active)) {
         // Jump when the player is touching the ground and the up arrow is pressed
         this.player.body.velocity.y = this.JUMP_SPEED;
     }
 
     if (onLadder) {
-        if(this.upInputIsActive()) {
+        if(this.input.keyboard.isDown(Phaser.Keyboard.UP) || dy < 0) {
             this.player.body.acceleration.y = -this.ACCELERATION;
-        } else if(this.downInputIsActive()) {
+        } else if(this.input.keyboard.isDown(Phaser.Keyboard.DOWN) || dy > 0) {
             this.player.body.acceleration.y = this.ACCELERATION;
         } else {
             this.player.body.acceleration.y = this.player.body.velocity.y = 0;
         }
     }
 
+    // animation
     if(this.player.body.velocity.x == 0 && !this.player.animations.paused) {
         this.player.animations.paused = true;
         this.player.animations.frameName = "ermin";
@@ -258,6 +275,7 @@ GameState.prototype.update = function() {
         this.player.animations.paused = false;
     }
 
+    // directional sprite
     if(this.player.body.velocity.x != 0) {
         this.player.scale.x = this.player.body.velocity.x < 0 ? -1 : 1;
     }
@@ -269,21 +287,21 @@ GameState.prototype.update = function() {
     // enemies collision check
 
     // screen boundary checking
-    var pw = Math.abs(this.player.width * 1.5);
+    var pw = Math.abs(this.player.width);
     var load_room = null;
     if(this.player.x < 0 && this.player.body.velocity.x < 0) {
         load_room = WORLD[this.room][0];
         if(load_room) {
-            this.player.x = this.world.width + pw;
+            this.player.x = this.world.width - pw;
         } else {
             this.player.x = 0;
         }
-    } else if(this.player.x >= this.world.width + pw && this.player.body.velocity.x > 0) {
+    } else if(this.player.x >= this.world.width - pw * .6 && this.player.body.velocity.x > 0) {
         load_room = WORLD[this.room][1];
         if(load_room) {
             this.player.x = 0;
         } else {
-            this.player.x = this.world.width + pw;
+            this.player.x = this.world.width - pw;
         }
     }
     if(load_room) {
@@ -297,68 +315,5 @@ GameState.prototype.move_enemy = function(child) {
     en.move(this.game, child, en);
 };
 
-// This function should return true when the player activates the "go left" control
-// In this case, either holding the right arrow or tapping or clicking on the left
-// side of the screen.
-GameState.prototype.leftInputIsActive = function() {
-    var isActive = false;
-
-    isActive = this.input.keyboard.isDown(Phaser.Keyboard.LEFT);
-    for(var i = 0; i < this.CONTROLS.length; i++) {
-        isActive |= (this.CONTROLS[i].active &&
-            this.CONTROLS[i].x < this.CONTROLLER_SIZE &&
-            this.CONTROLS[i].y >= this.game.height - this.CONTROLLER_SIZE * 2 &&
-            this.CONTROLS[i].y < this.game.height - this.CONTROLLER_SIZE);
-    }
-
-    return isActive;
-};
-
-// This function should return true when the player activates the "go right" control
-// In this case, either holding the right arrow or tapping or clicking on the right
-// side of the screen.
-GameState.prototype.rightInputIsActive = function() {
-    var isActive = false;
-
-    isActive = this.input.keyboard.isDown(Phaser.Keyboard.RIGHT);
-    for(var i = 0; i < this.CONTROLS.length; i++) {
-        isActive |= (this.CONTROLS[i].active &&
-            this.CONTROLS[i].x < this.CONTROLLER_SIZE &&
-            this.CONTROLS[i].y >= this.game.height - this.CONTROLLER_SIZE);
-    }
-
-    return isActive;
-};
-
-// This function should return true when the player activates the "jump" control
-// In this case, either holding the up arrow or tapping or clicking on the center
-// part of the screen.
-GameState.prototype.upInputIsActive = function(duration) {
-    var isActive = false;
-
-    isActive = this.input.keyboard.isDown(Phaser.Keyboard.UP);
-    for(var i = 0; i < this.CONTROLS.length; i++) {
-        isActive |= (this.CONTROLS[i].active &&
-            this.CONTROLS[i].x >= this.game.width - this.CONTROLLER_SIZE &&
-            this.CONTROLS[i].y >= this.game.height - this.CONTROLLER_SIZE * 2 &&
-            this.CONTROLS[i].y < this.game.height - this.CONTROLLER_SIZE);
-    }
-
-    return isActive;
-};
-
-GameState.prototype.downInputIsActive = function(duration) {
-    var isActive = false;
-
-    isActive = this.input.keyboard.isDown(Phaser.Keyboard.DOWN);
-    for(var i = 0; i < this.CONTROLS.length; i++) {
-        isActive |= (this.CONTROLS[i].active &&
-            this.CONTROLS[i].x >= this.game.width - this.CONTROLLER_SIZE &&
-            this.CONTROLS[i].y >= this.game.height - this.CONTROLLER_SIZE);
-    }
-
-    return isActive;
-};
-
-var game = new Phaser.Game(900, 530, Phaser.AUTO, 'game');
+var game = new Phaser.Game(1000, 600, Phaser.AUTO, 'game');
 game.state.add('game', GameState, true);

diff --git a/src/textures.js b/src/textures.js
@@ -9,6 +9,7 @@ TEXTURES = {
     ladder1: { x: 8, y: 0, w: 2, h: 2 },
     cannon1: { x: 10, y: 0, w: 3, h: 2 },
     cannon2: { x: 13, y: 0, w: 3, h: 2 },
+    pipe_up: { x: 16, y: 0, w: 2, h: 2 },
     baddy1: { x: 24, y: 30, w: 2, h: 2 },
     baddy2: { x: 26, y: 30, w: 2, h: 2 },
     kettle1: { x: 21, y: 29, w: 3, h: 3 },
@@ -55,6 +56,7 @@ var BLOCKS = [
     ["red_bright", "roof1"],
     ["red_bright", "roof2"],
     ["yellow_bright", "lamp"],
+    ["yellow", "pipe_up"],
 ];
 
 function Textures() {
